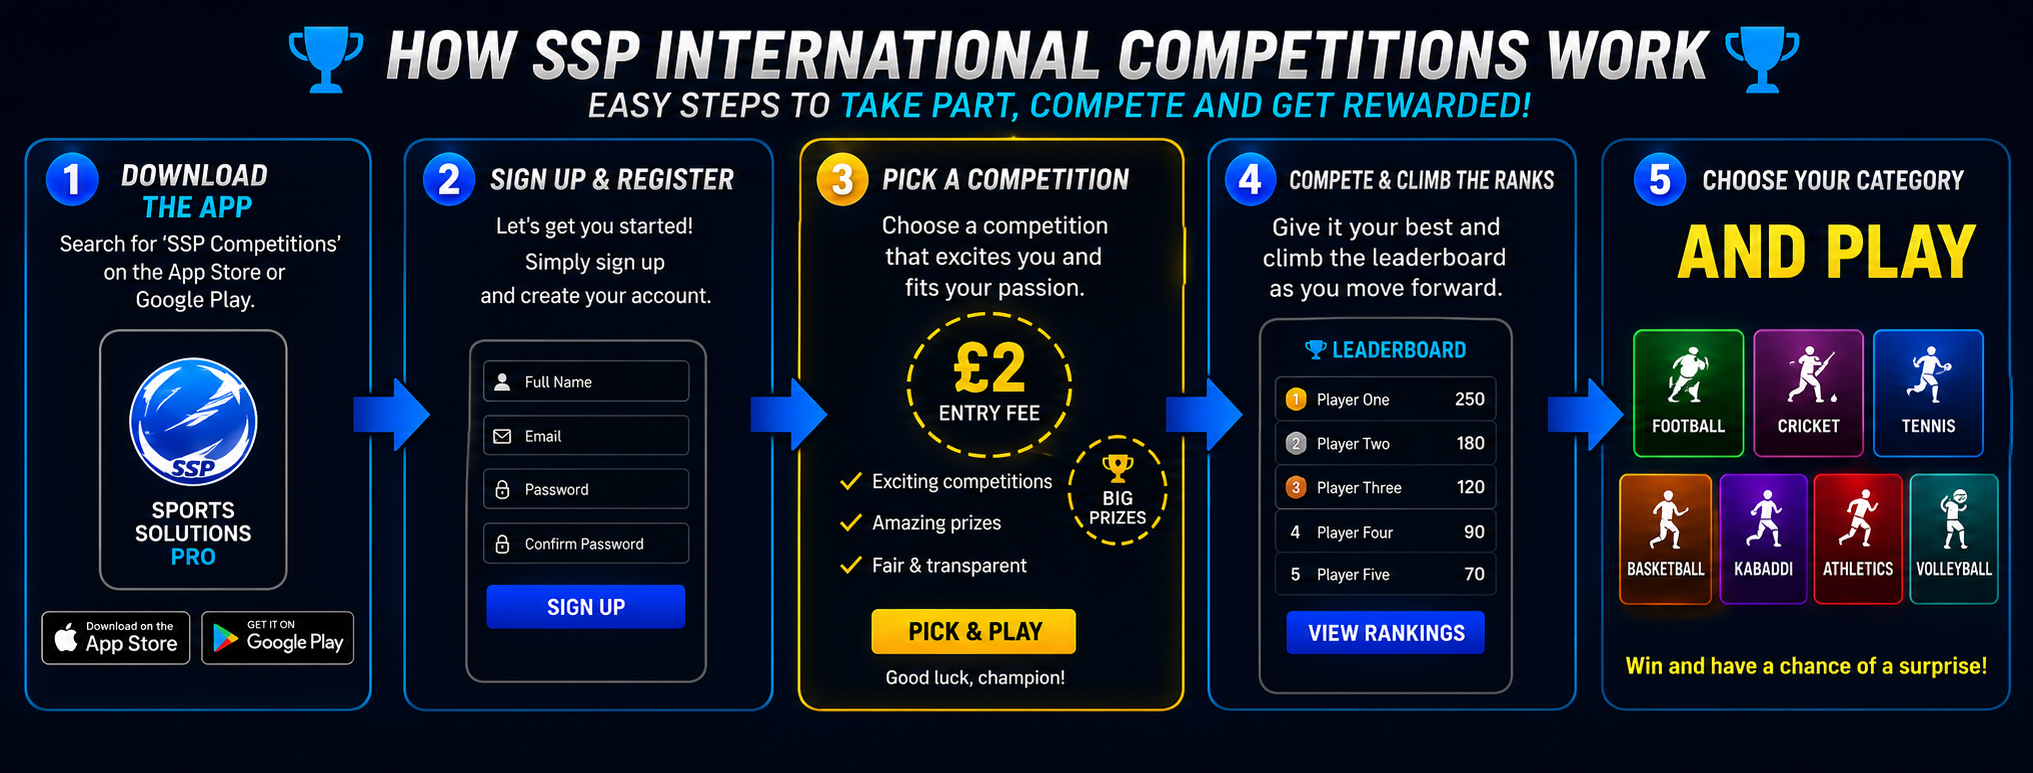
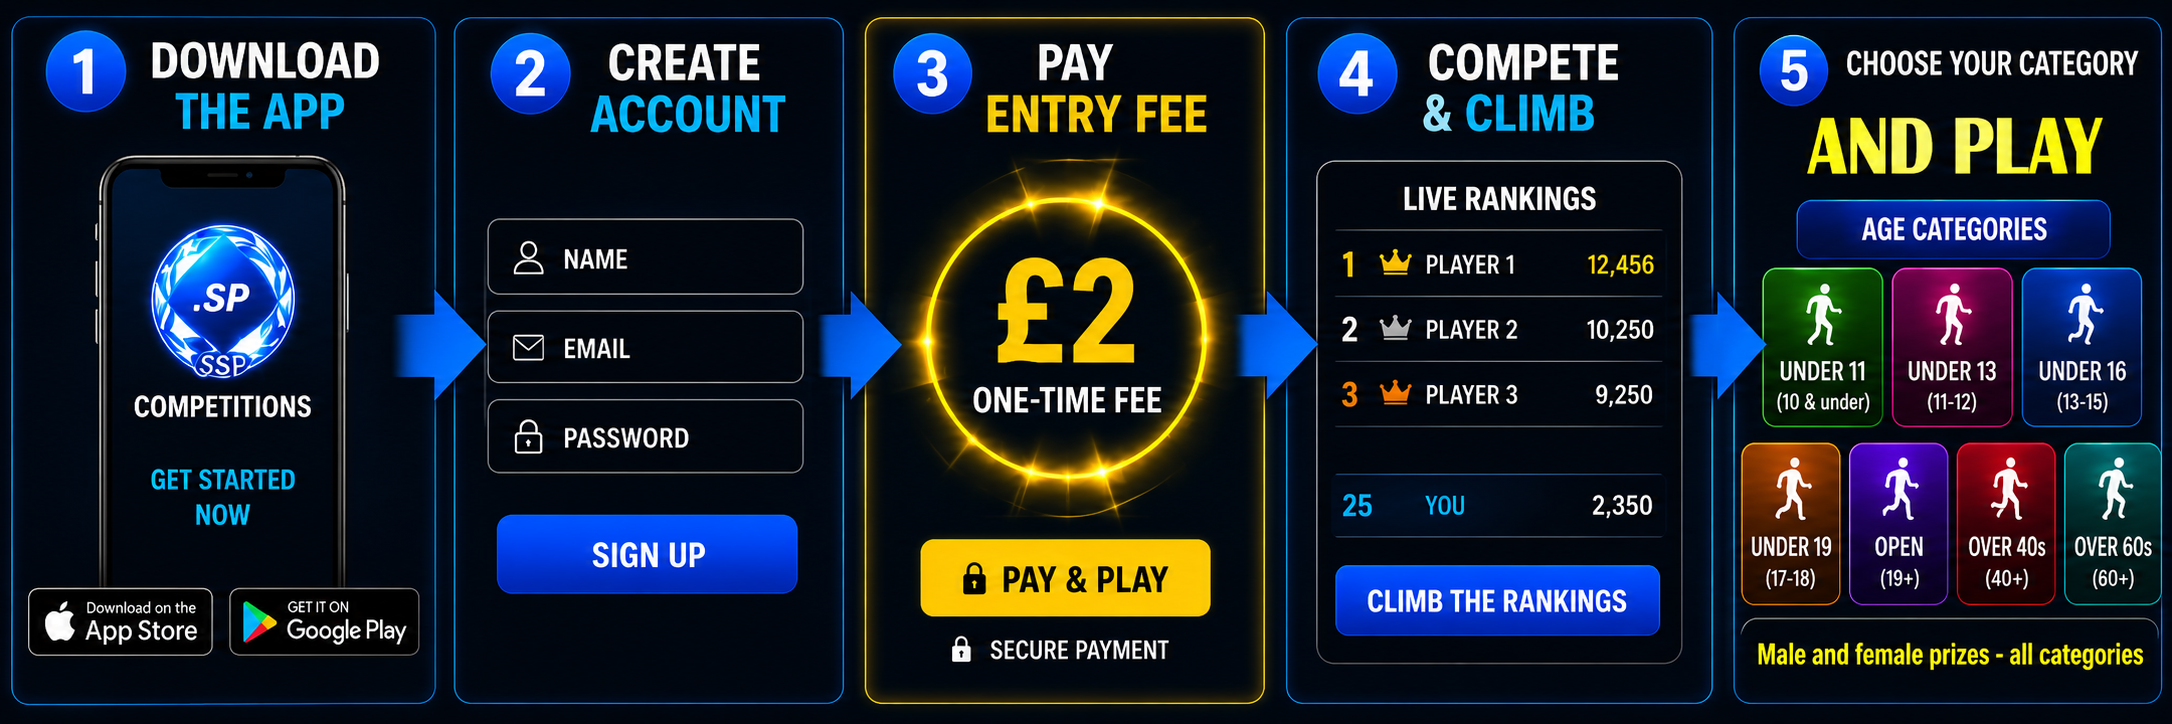
changes in the filter of the talent board

diff --git a/components/shared/PerformanceDatabase.jsx b/components/shared/PerformanceDatabase.jsx
@@ -158,10 +158,12 @@ export default function PerformanceDatabase({ refreshTrigger }) {
   const [gender, setGender] = useState("");
   const [country, setCountry] = useState("");
   const [keyword, setKeyword] = useState("");
+  const [unit, setUnit] = useState("");
   const [minResult, setMinResult] = useState("");
   const [maxResult, setMaxResult] = useState("");
   const [dateFrom, setDateFrom] = useState("");
   const [dateTo, setDateTo] = useState("");
+  const [verifiedOnly, setVerifiedOnly] = useState(false);
 
   const [appliedFilters, setAppliedFilters] = useState({
     sport: "",
@@ -170,10 +172,12 @@ export default function PerformanceDatabase({ refreshTrigger }) {
     gender: "",
     country: "",
     keyword: "",
+    unit: "",
     minResult: "",
     maxResult: "",
     dateFrom: "",
     dateTo: "",
+    witnes_by: false,
   });
 
   const [sortBy, setSortBy] = useState("newest");
@@ -231,10 +235,12 @@ export default function PerformanceDatabase({ refreshTrigger }) {
           gender: currentFilters.gender || undefined,
           country: currentFilters.country || undefined,
           keyword: currentFilters.keyword || undefined,
+          unit: currentFilters.unit || undefined,
           min_result: currentFilters.minResult || undefined,
           max_result: currentFilters.maxResult || undefined,
           date_from: currentFilters.dateFrom || undefined,
           date_to: currentFilters.dateTo || undefined,
+          witnes_by: currentFilters.witnes_by || undefined,
         };
 
         if (adminId) {
@@ -315,14 +321,24 @@ export default function PerformanceDatabase({ refreshTrigger }) {
       gender,
       country,
       keyword,
+      unit,
       minResult,
       maxResult,
       dateFrom,
       dateTo,
+      witnes_by: verifiedOnly,
     };
     setAppliedFilters(newFilters);
     setCurrentPage(1);
     fetchResults(1, newFilters);
+  };
+
+  const handleUnitChange = (e) => {
+    setUnit(e.target.value);
+  };
+
+  const handleVerifiedOnlyToggle = () => {
+    setVerifiedOnly((current) => !current);
   };
 
   const handleReset = () => {
@@ -332,10 +348,12 @@ export default function PerformanceDatabase({ refreshTrigger }) {
     setGender("");
     setCountry("");
     setKeyword("");
+    setUnit("");
     setMinResult("");
     setMaxResult("");
     setDateFrom("");
     setDateTo("");
+    setVerifiedOnly(false);
 
     const clearedFilters = {
       sport: "",
@@ -344,10 +362,12 @@ export default function PerformanceDatabase({ refreshTrigger }) {
       gender: "",
       country: "",
       keyword: "",
+      unit: "",
       minResult: "",
       maxResult: "",
       dateFrom: "",
       dateTo: "",
+      witnes_by: false,
     };
 
     setAppliedFilters(clearedFilters);
@@ -620,7 +640,7 @@ export default function PerformanceDatabase({ refreshTrigger }) {
                 SSP Talent Board
               </h1>
               <p className="mt-3 max-w-2xl text-sm text-muted-foreground sm:text-base">
-                Entries on the SSP Talent Board are submitted by participating clubs and organisations to help showcase emerging talent and notable sporting achievements. Interested parties are encouraged to contact the submitting club or organisation directly for further information.  SSP reserves the right to remove or hide any entry that appears unsuitable, inaccurate, incomplete, or inappropriate 
+                Entries on the SSP Talent Board are submitted by participating articipating clubs, coaches and organisations to help showcase emerging talent and notable sporting achievements. Interested parties are encouraged to contact the submitting club or organisation directly for further information.  SSP reserves the right to remove or hide any entry that appears unsuitable, inaccurate, incomplete, or inappropriate 
               </p>
             </div>
 
@@ -654,8 +674,8 @@ export default function PerformanceDatabase({ refreshTrigger }) {
         </div>
 
         <form onSubmit={handleSearch} className={`${panelClass} space-y-6 p-6 sm:p-8`}>
-          <div className="grid grid-cols-1 gap-4 sm:grid-cols-2 md:grid-cols-3 lg:grid-cols-7">
-            <div className="space-y-1.5">
+          <div className="grid grid-cols-1 gap-4 sm:grid-cols-2 lg:grid-cols-4 xl:grid-cols-[minmax(130px,0.85fr)_minmax(220px,1.3fr)_minmax(100px,0.65fr)_minmax(130px,0.85fr)_minmax(130px,0.85fr)_minmax(150px,0.95fr)_minmax(220px,1.3fr)]">
+            <div className="space-y-1.5 min-w-0">
               <label className={mutedLabelClass}>Sport</label>
               <select value={sport} onChange={(e) => setSport(e.target.value)} className={selectClass}>
                 <option value="">All Sports</option>
@@ -665,7 +685,7 @@ export default function PerformanceDatabase({ refreshTrigger }) {
               </select>
             </div>
 
-            <div className="space-y-1.5 sm:col-span-2 md:col-span-2 lg:col-span-2">
+            <div className="space-y-1.5 min-w-0 sm:col-span-2 lg:col-span-2 xl:col-span-1">
               <label className={mutedLabelClass}>Activity / Event</label>
               <select value={activity} onChange={(e) => setActivity(e.target.value)} className={selectClass}>
                 <option value="">All Activities</option>
@@ -675,7 +695,12 @@ export default function PerformanceDatabase({ refreshTrigger }) {
               </select>
             </div>
 
-            <div className="space-y-1.5">
+            <div className="space-y-1.5 min-w-0">
+              <label className={mutedLabelClass}>Unit</label>
+              <input type="text" value={unit} onChange={handleUnitChange} className={fieldClass} />
+            </div>
+
+            <div className="space-y-1.5 min-w-0">
               <label className={mutedLabelClass}>Age Group</label>
               <select value={ageGroup} onChange={(e) => setAgeGroup(e.target.value)} className={selectClass}>
                 <option value="">All Ages</option>
@@ -688,7 +713,7 @@ export default function PerformanceDatabase({ refreshTrigger }) {
               </select>
             </div>
 
-            <div className="space-y-1.5">
+            <div className="space-y-1.5 min-w-0">
               <label className={mutedLabelClass}>Gender</label>
               <select value={gender} onChange={(e) => setGender(e.target.value)} className={selectClass}>
                 <option value="">All Genders</option>
@@ -698,7 +723,7 @@ export default function PerformanceDatabase({ refreshTrigger }) {
               </select>
             </div>
 
-            <div className="space-y-1.5">
+            <div className="space-y-1.5 min-w-0">
               <label className={mutedLabelClass}>Country</label>
               <select value={country} onChange={(e) => setCountry(e.target.value)} className={selectClass}>
                 <option value="">All Countries</option>
@@ -708,7 +733,7 @@ export default function PerformanceDatabase({ refreshTrigger }) {
               </select>
             </div>
 
-            <div className="space-y-1.5">
+            <div className="space-y-1.5 min-w-0 sm:col-span-2 lg:col-span-2 xl:col-span-1">
               <label className={mutedLabelClass}>Keyword Search</label>
               <div className="relative">
                 <input
@@ -723,50 +748,60 @@ export default function PerformanceDatabase({ refreshTrigger }) {
             </div>
           </div>
 
-          <div className="flex flex-col items-start justify-between gap-3 border-t border-border/70 pt-2 lg:flex-row lg:items-end">
-            <div className="grid w-full grid-cols-1 gap-6 sm:grid-cols-3 lg:w-3/4">
-              <div className="space-y-1.5">
-                <label className={mutedLabelClass}>Result Range</label>
-                <div className="flex items-center gap-2">
-                  <input
-                    type="number"
-                    placeholder="Min"
-                    value={minResult}
-                    max={maxResult !== "" ? maxResult : undefined}
-                    onChange={(e) => setMinResult(e.target.value)}
-                    className={fieldClass}
-                  />
-                  <span className="text-xs font-bold uppercase text-muted-foreground">to</span>
-                  <input
-                    type="number"
-                    placeholder="Max"
-                    value={maxResult}
-                    min={minResult !== "" ? minResult : undefined}
-                    onChange={(e) => setMaxResult(e.target.value)}
-                    className={fieldClass}
-                  />
-                </div>
-              </div>
-
-              <div className="space-y-1.5">
-                <label className={mutedLabelClass}>Date From</label>
-                <input type="date" value={dateFrom} onChange={(e) => setDateFrom(e.target.value)} className={fieldClass} />
-              </div>
-
-              <div className="space-y-1.5">
-                <label className={mutedLabelClass}>Date To</label>
-                <input type="date" value={dateTo} onChange={(e) => setDateTo(e.target.value)} className={fieldClass} />
+          <div className="grid grid-cols-1 items-end gap-4 border-t border-border/70 pt-2 sm:grid-cols-2 lg:grid-cols-4 xl:grid-cols-[minmax(260px,1.35fr)_minmax(150px,0.8fr)_minmax(150px,0.8fr)_minmax(150px,0.7fr)_auto]">
+            <div className="space-y-1.5 min-w-0">
+              <label className={mutedLabelClass}>Result Range</label>
+              <div className="flex items-center gap-2">
+                <input
+                  type="number"
+                  placeholder="Min"
+                  value={minResult}
+                  max={maxResult !== "" ? maxResult : undefined}
+                  onChange={(e) => setMinResult(e.target.value)}
+                  className={fieldClass}
+                />
+                <span className="text-xs font-bold uppercase text-muted-foreground">to</span>
+                <input
+                  type="number"
+                  placeholder="Max"
+                  value={maxResult}
+                  min={minResult !== "" ? minResult : undefined}
+                  onChange={(e) => setMaxResult(e.target.value)}
+                  className={fieldClass}
+                />
               </div>
             </div>
 
-            <div className="flex flex-col sm:flex-row w-full gap-3 lg:w-auto shrink-0">
-              <button type="button" onClick={handleReset} className={`${subtleButtonClass} h-11 w-full sm:w-auto justify-center px-4`}>
+            <div className="space-y-1.5 min-w-0">
+              <label className={mutedLabelClass}>Date From</label>
+              <input type="date" value={dateFrom} onChange={(e) => setDateFrom(e.target.value)} className={fieldClass} />
+            </div>
+
+            <div className="space-y-1.5 min-w-0">
+              <label className={mutedLabelClass}>Date To</label>
+              <input type="date" value={dateTo} onChange={(e) => setDateTo(e.target.value)} className={fieldClass} />
+            </div>
+            <div className="space-y-1.5 min-w-0">
+              <button
+                type="button"
+                aria-pressed={verifiedOnly}
+                onClick={handleVerifiedOnlyToggle}
+                className={`${fieldClass} whitespace-nowrap text-center ${
+                  verifiedOnly ? "border-primary bg-primary text-white shadow-md" : ""
+                }`}
+              >
+                Verified Only
+              </button>
+            </div>
+
+            <div className="flex w-full flex-col gap-3 sm:col-span-2 sm:flex-row lg:col-span-4 xl:col-span-1 xl:w-auto xl:shrink-0">
+              <button type="button" onClick={handleReset} className={`${subtleButtonClass} h-11 w-full justify-center whitespace-nowrap px-4 sm:w-auto`}>
                 <RotateCcw className="h-4 w-4" />
                 Reset Filters
               </button>
               <button
                 type="submit"
-                className="flex h-11 w-full sm:w-auto items-center justify-center gap-2 rounded-xl px-6 text-sm font-semibold uppercase tracking-wide text-white shadow-lg transition-all hover:-translate-y-0.5"
+                className="flex h-11 w-full items-center justify-center gap-2 whitespace-nowrap rounded-xl px-6 text-sm font-semibold uppercase tracking-wide text-white shadow-lg transition-all hover:-translate-y-0.5 sm:w-auto"
                 style={{ backgroundImage: brandGradient, boxShadow: "var(--brand-button-shadow)" }}
               >
                 <Search className="h-4 w-4" />

diff --git a/components/pages/payment/PlanHeading.jsx b/components/pages/payment/PlanHeading.jsx
@@ -490,7 +490,122 @@ export default function PlanHeading() {
                     </svg>
                   </Link>
 
-              </div>
+                </div>
+                                <div className="relative mx-4 mb-4 mt-2 md:mt-0 md:mx-0 md:absolute md:bottom-4 md:left-4 md:right-4 w-[calc(100%-2rem)] md:w-auto bg-gradient-to-r from-[#000a29] via-[#00143f] to-[#00081d] rounded-[24px] border border-cyan-500/40 p-4 md:py-4 md:px-7 shadow-[0_0_30px_rgba(6,182,212,0.22)] flex flex-wrap md:flex-nowrap items-center justify-around md:justify-between gap-4 md:gap-3 text-white">
+                  
+                  {/* 1. Download The App */}
+                  <div className="flex items-center gap-3.5">
+                    <div className="border-[2.5px] border-white/80 rounded-2xl p-1.5 w-10 h-[52px] flex items-center justify-center text-white shrink-0 shadow-inner">
+                      <svg className="h-7 w-5" viewBox="0 0 24 38" fill="none">
+                        <rect x="1" y="1" width="22" height="36" rx="4" stroke="currentColor" strokeWidth="2.5" />
+                        <circle cx="12" cy="31" r="1.5" fill="currentColor" />
+                      </svg>
+                    </div>
+                    <div className="flex flex-col text-left leading-tight">
+                      <span className="text-[10px] font-bold tracking-[0.1em] text-slate-300">DOWNLOAD</span>
+                      <span className="text-[15px] font-black tracking-wide text-cyan-400">THE APP</span>
+                    </div>
+                  </div>
+
+                  {/* Divider */}
+                  <div className="hidden md:block h-9 w-[1.5px] bg-cyan-500/20" />
+
+                  {/* 2. Use SSP ID */}
+                  <div className="flex items-center gap-3.5">
+                    <div className="text-cyan-400 shrink-0">
+                      <svg className="h-10 w-9" viewBox="0 0 32 36" fill="none" stroke="currentColor" strokeWidth="2.5" strokeLinecap="round" strokeLinejoin="round">
+                        <path d="M16 2s10 2 10 9c0 9-10 14-10 14S6 20 6 11c0-7 10-9 10-9z" />
+                        <circle cx="16" cy="11" r="3" fill="currentColor" />
+                        <path d="M11 18c0-2.5 2.5-3 5-3s5 .5 5 3" />
+                      </svg>
+                    </div>
+                    <div className="flex flex-col text-left leading-none">
+                      <span className="text-[9px] font-bold tracking-[0.08em] text-slate-300 mb-1">USE SSP ID</span>
+                      <span className="text-sm font-black text-yellow-300 tracking-wide">"SSPCOMPS"</span>
+                      <span className="text-[9px] font-bold tracking-[0.08em] text-slate-300 mt-1">TO ENTER</span>
+                    </div>
+                  </div>
+
+                  {/* Divider */}
+                  <div className="hidden md:block h-9 w-[1.5px] bg-cyan-500/20" />
+
+                  {/* 3. Store Download Badges */}
+                  <div className="flex flex-col gap-1.5 shrink-0">
+                    {/* App Store Badge */}
+                    <a
+                      href="https://apps.apple.com/il/app/sports-solutions-pro/id6768947773"
+                      target="_blank"
+                      rel="noopener noreferrer"
+                      className="bg-black hover:bg-slate-900 border border-white/15 rounded-xl px-3.5 py-1.5 flex items-center gap-2 transition-all hover:scale-[1.02] active:scale-[0.98] shadow-md w-[142px] h-[34px] cursor-pointer"
+                    >
+                      <svg className="h-4 w-4 fill-white shrink-0" viewBox="0 0 24 24">
+                        <path d="M18.71 19.5c-.83 1.24-1.71 2.45-3.05 2.47-1.34.03-1.77-.79-3.29-.79-1.53 0-2 .77-3.27.82-1.31.05-2.3-1.32-3.14-2.53C4.25 17 2.94 12.45 4.7 9.39c.87-1.52 2.43-2.48 4.12-2.51 1.28-.02 2.5.87 3.29.87.78 0 2.26-1.07 3.81-.91.65.03 2.47.26 3.64 1.98-.09.06-2.17 1.28-2.15 3.81.03 3.02 2.65 4.03 2.68 4.04-.03.07-.42 1.44-1.38 2.83M15.97 4.17c.66-.81 1.11-1.93.99-3.06-1 .04-2.22.67-2.94 1.5-.63.73-1.18 1.87-1.03 2.97 1.12.09 2.27-.6 2.98-1.41z"/>
+                      </svg>
+                      <div className="text-left leading-tight flex flex-col justify-center">
+                        <span className="text-[6.5px] uppercase tracking-wider text-gray-300 leading-none">Download on the</span>
+                        <span className="text-[10.5px] font-bold font-sans text-white leading-none mt-0.5">App Store</span>
+                      </div>
+                    </a>
+
+                    {/* Google Play Badge */}
+                    <a
+                      href="https://play.google.com/store/apps/details?id=com.sportssolutions.ssp"
+                      target="_blank"
+                      rel="noopener noreferrer"
+                      className="bg-black hover:bg-slate-900 border border-white/15 rounded-xl px-3.5 py-1.5 flex items-center gap-2 transition-all hover:scale-[1.02] active:scale-[0.98] shadow-md w-[142px] h-[34px] cursor-pointer"
+                    >
+                      <svg className="h-4 w-4 shrink-0" viewBox="0 0 24 24" fill="none">
+                        <path d="M3.25 3.25c-.14.14-.25.36-.25.64v16.22c0 .28.11.5.25.64l.06.06L12.44 12v-.12L3.31 3.19l-.06.06z" fill="#3bccff" />
+                        <path d="M15.5 15.06l-3.06-3.06v-.12l3.06-3.06.07.04 3.63 2.06c1.04.59 1.04 1.55 0 2.14l-3.63 2.06-.07-.06z" fill="#ffcc00" />
+                        <path d="M12.44 11.94L3.25 21.13c.34.36.91.4 1.55.04l10.76-6.11-3.12-3.12z" fill="#ff3366" />
+                        <path d="M12.44 12.06l3.12-3.12L4.8 2.83c-.64-.36-1.21-.32-1.55.04L12.44 12z" fill="#48ff48" />
+                      </svg>
+                      <div className="text-left leading-tight flex flex-col justify-center">
+                        <span className="text-[6.5px] uppercase tracking-wider text-gray-300 leading-none">GET IT ON</span>
+                        <span className="text-[10.5px] font-bold font-sans text-white leading-none mt-0.5">Google Play</span>
+                      </div>
+                    </a>
+                  </div>
+
+                  {/* Divider */}
+                  <div className="hidden md:block h-9 w-[1.5px] bg-cyan-500/20" />
+
+                  {/* 4. Follow Us */}
+                  <div className="flex items-center gap-3.5">
+                    <div className="flex flex-col items-center leading-none text-center">
+                      <span className="text-[9px] font-bold text-slate-300 tracking-wide">FOLLOW US</span>
+                      <span className="text-[9px] font-bold text-slate-300 tracking-wide mt-0.5">ON</span>
+                    </div>
+                    <a
+                      href="https://www.facebook.com/profile.php?id=61580051563946"
+                      target="_blank"
+                      rel="noopener noreferrer"
+                      className="w-8 h-8 rounded-full bg-white hover:scale-105 active:scale-95 flex items-center justify-center transition-all shadow-md cursor-pointer"
+                    >
+                      <svg className="h-5 w-5 fill-[#1877F2]" viewBox="0 0 24 24">
+                        <path d="M24 12.073c0-6.627-5.373-12-12-12s-12 5.373-12 12c0 5.99 4.388 10.954 10.125 11.854v-8.385H7.078v-3.47h3.047V9.43c0-3.007 1.792-4.669 4.533-4.669 1.312 0 2.686.235 2.686.235v2.953H15.83c-1.491 0-1.956.925-1.956 1.874v2.25h3.328l-.532 3.47h-2.796v8.385C19.612 23.027 24 18.062 24 12.073z"/>
+                      </svg>
+                    </a>
+                  </div>
+
+                  {/* Divider */}
+                  <div className="hidden md:block h-9 w-[1.5px] bg-cyan-500/20" />
+
+                  {/* 5. Terms & Conditions */}
+                  <Link
+                    href="/terms-and-conditions"
+                    className="flex items-center gap-1.5 text-cyan-400 hover:text-cyan-300 font-black tracking-wide text-xs sm:text-sm group cursor-pointer transition-colors"
+                  >
+                    <div className="flex flex-col text-left leading-tight">
+                      <span>TERMS &</span>
+                      <span>CONDITIONS</span>
+                    </div>
+                    <svg className="h-4 w-4 transform group-hover:translate-x-1 transition-transform stroke-current" fill="none" viewBox="0 0 24 24" strokeWidth="3">
+                      <path strokeLinecap="round" strokeLinejoin="round" d="M9 5l7 7-7 7" />
+                    </svg>
+                  </Link>
+
+                </div>
             </div>
 
               {/* Popover overlay for /poster1.png */}